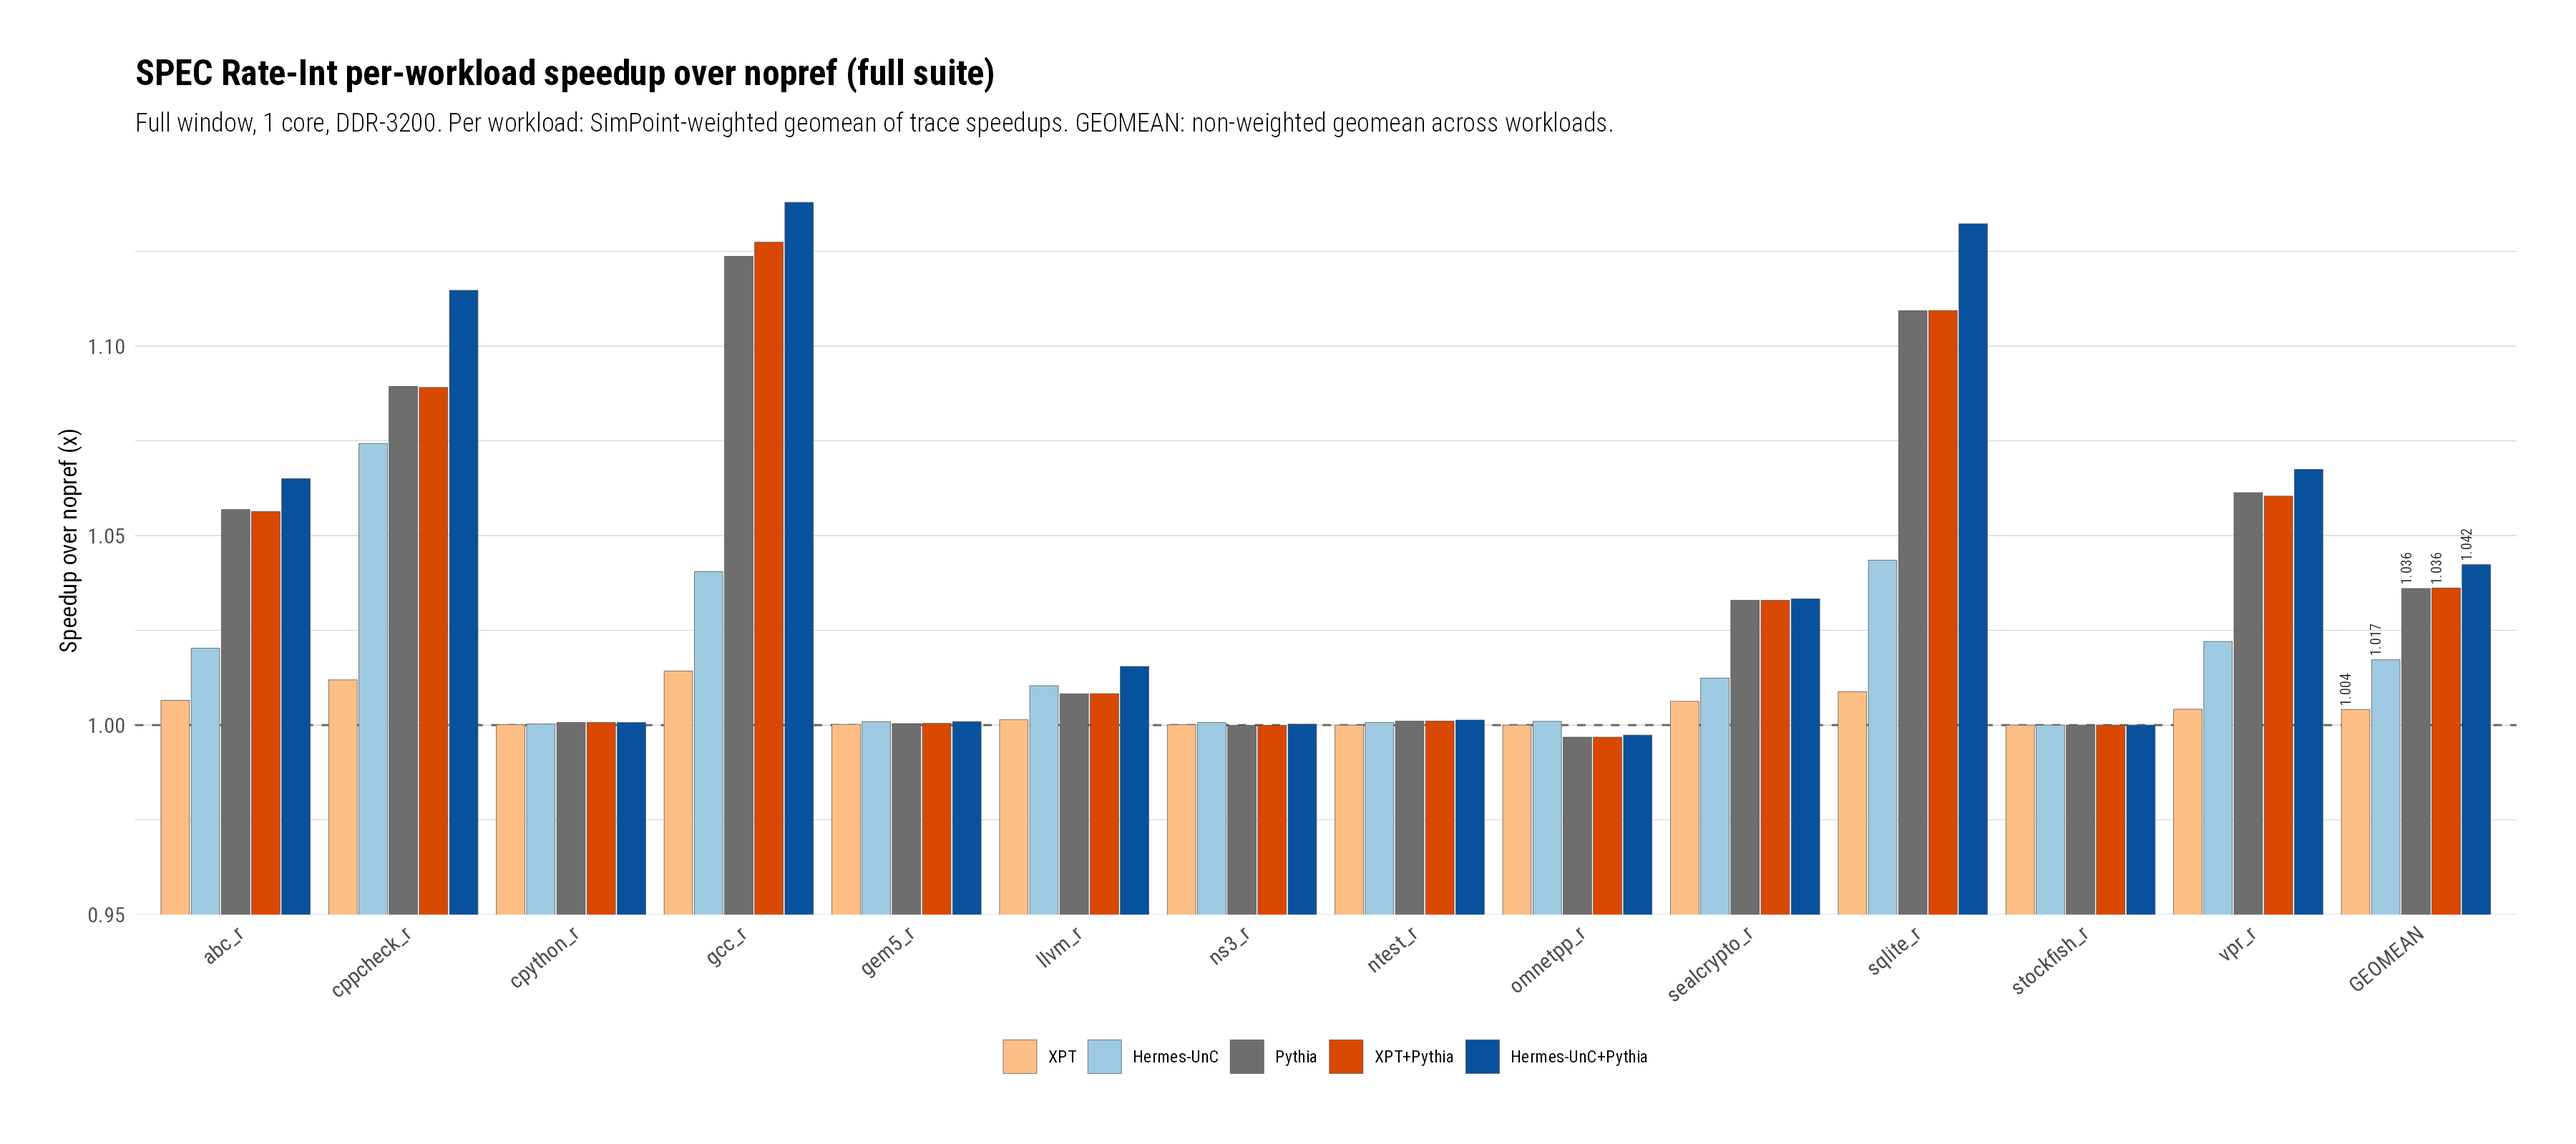
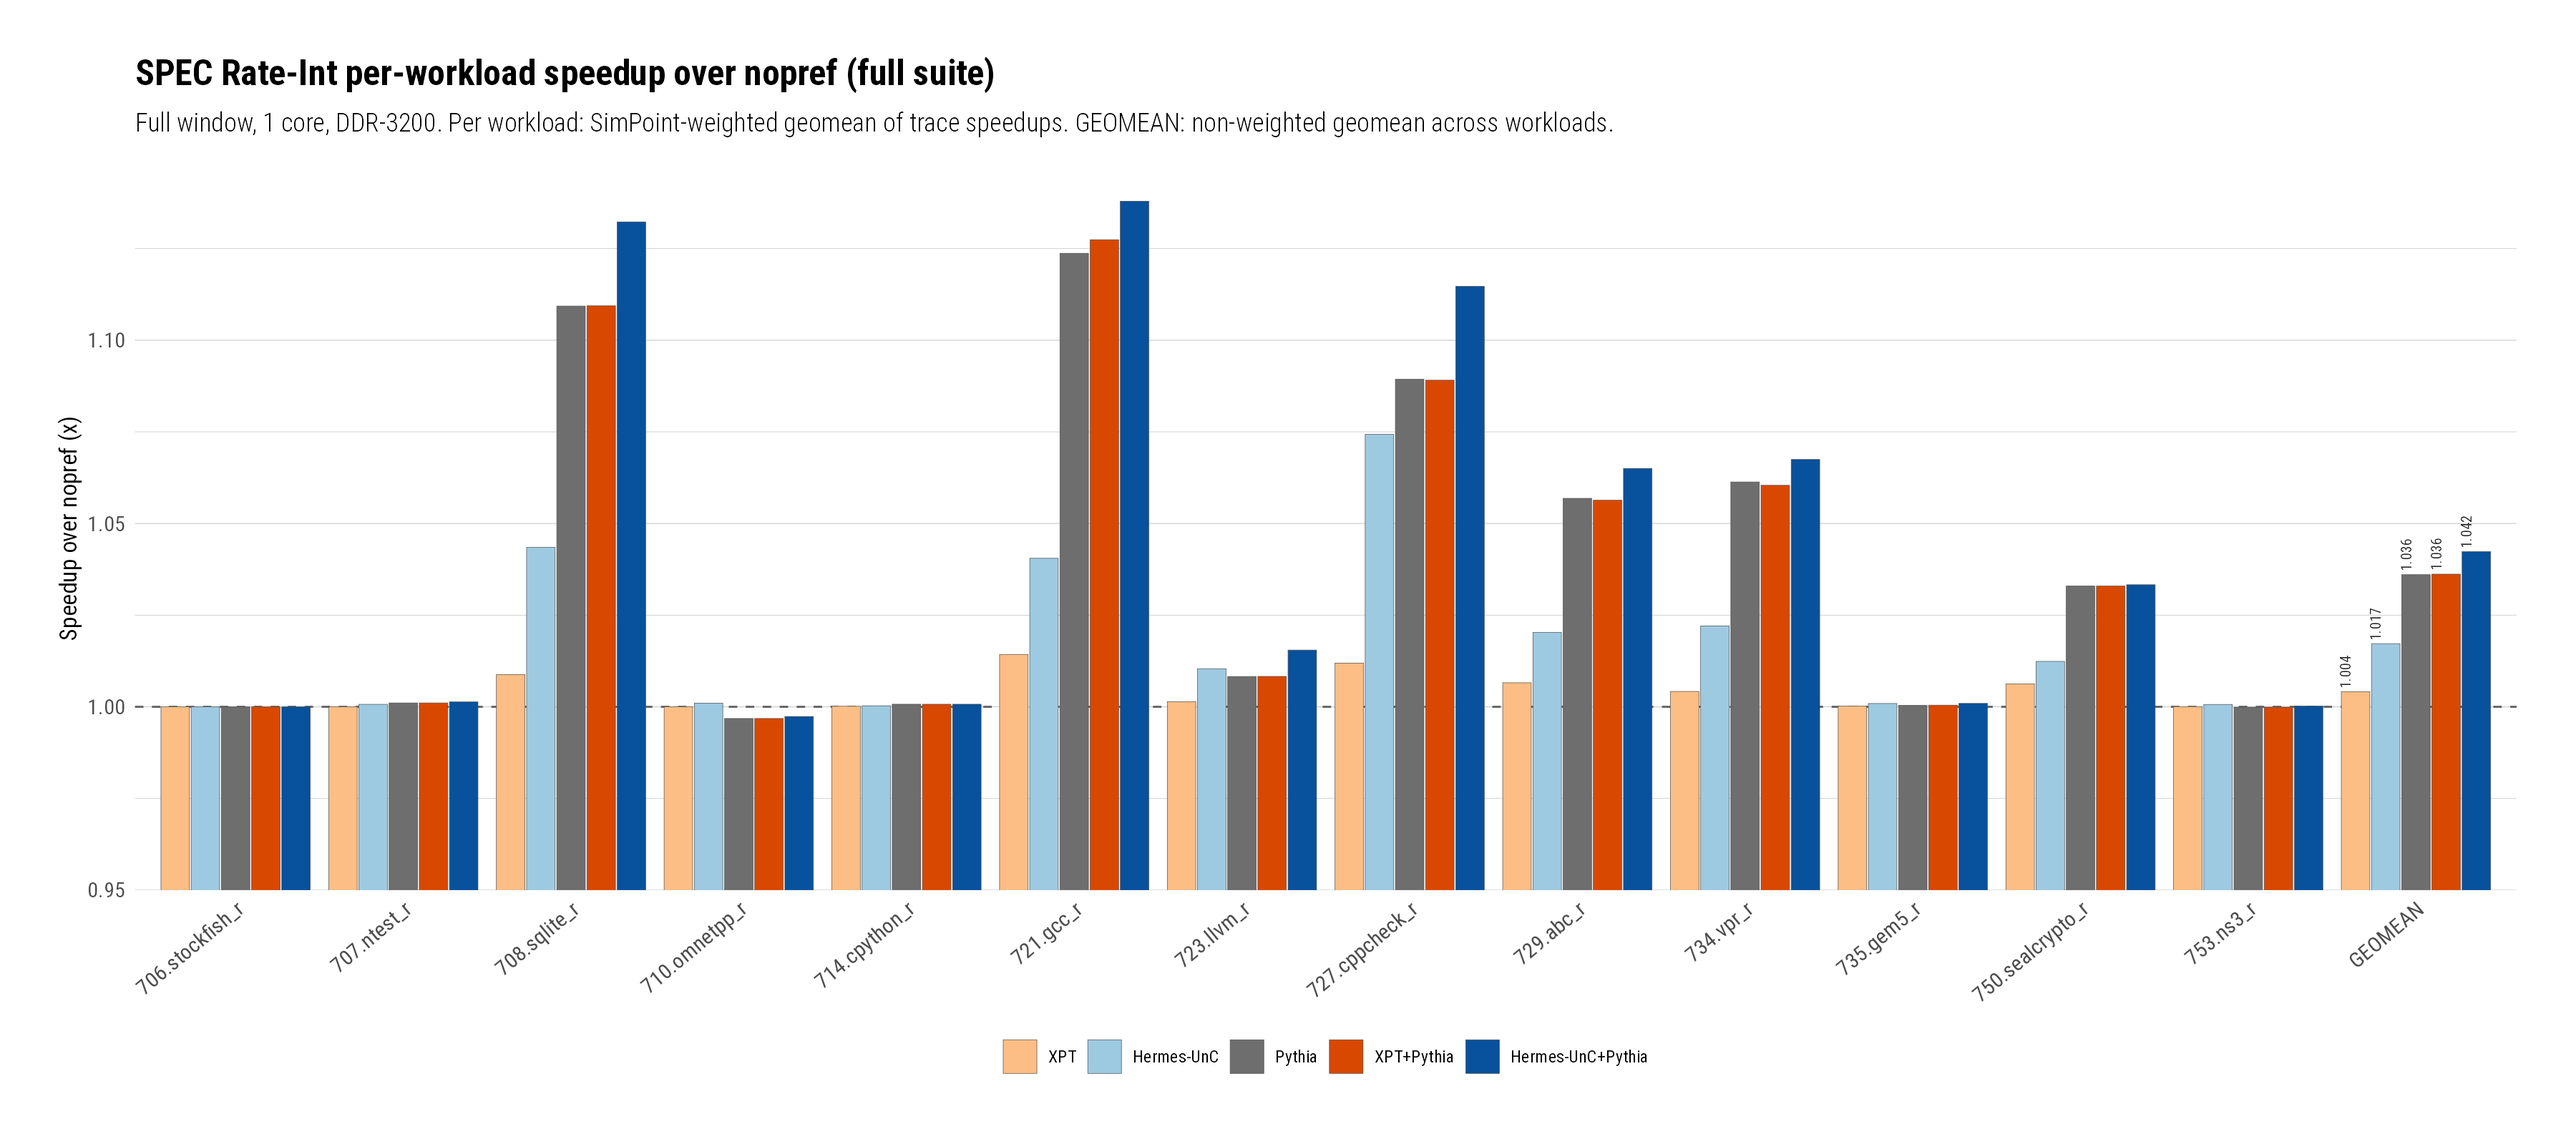
analysis: rate-int chart — full workload names ordered by number

diff --git a/analysis/CHARTLOG.md b/analysis/CHARTLOG.md
@@ -28,3 +28,4 @@ hermes_style.R, propagates to all charts); GEOMEAN bars value-labelled
 | 2026-07-12 | charts/bwsweep_curve_membound146.{png,pdf} | scripts/plot_bwsweep_curve_membound146.R | bwsweep_ipc_all (raw) -> bwsweep_speedup_curve | LINE chart: geomean speedup vs nopref (same-MTPS baseline) across 200..6400 MT/s (log2 x); 5 lines Pythia/XPT/XPT+P/Hermes-UnC/Hermes-UnC+P; NO new runs (bwsweep data). Crossover 400-800 MT/s; n=141/144/146x4 |
 Update: bwsweep_curve re-gen 2026-07-12 — dropped the "n=141/144..." string from subtitle (confusing).
 | 2026-07-12 | charts/speedup_rateint_workloads.{png,pdf} | scripts/plot_speedup_rateint_workloads.R | rateint_ipc (raw) -> rateint_workload_speedup | FULL SPEC Rate-Int (144 traces, 13 workloads); per-workload SimPoint-WEIGHTED geomean, GEOMEAN=non-weighted across workloads; 5 configs; no new runs (projection_rate). Hermes-UnC never tanks; GEOMEAN Hermes-UnC 1.017, +Pythia 1.042 vs Pythia 1.036 |
+Update: speedup_rateint_workloads re-gen 2026-07-12 — x labels use full workload name (721.gcc_r) ordered by 7xx number; GEOMEAN labels vertical.
